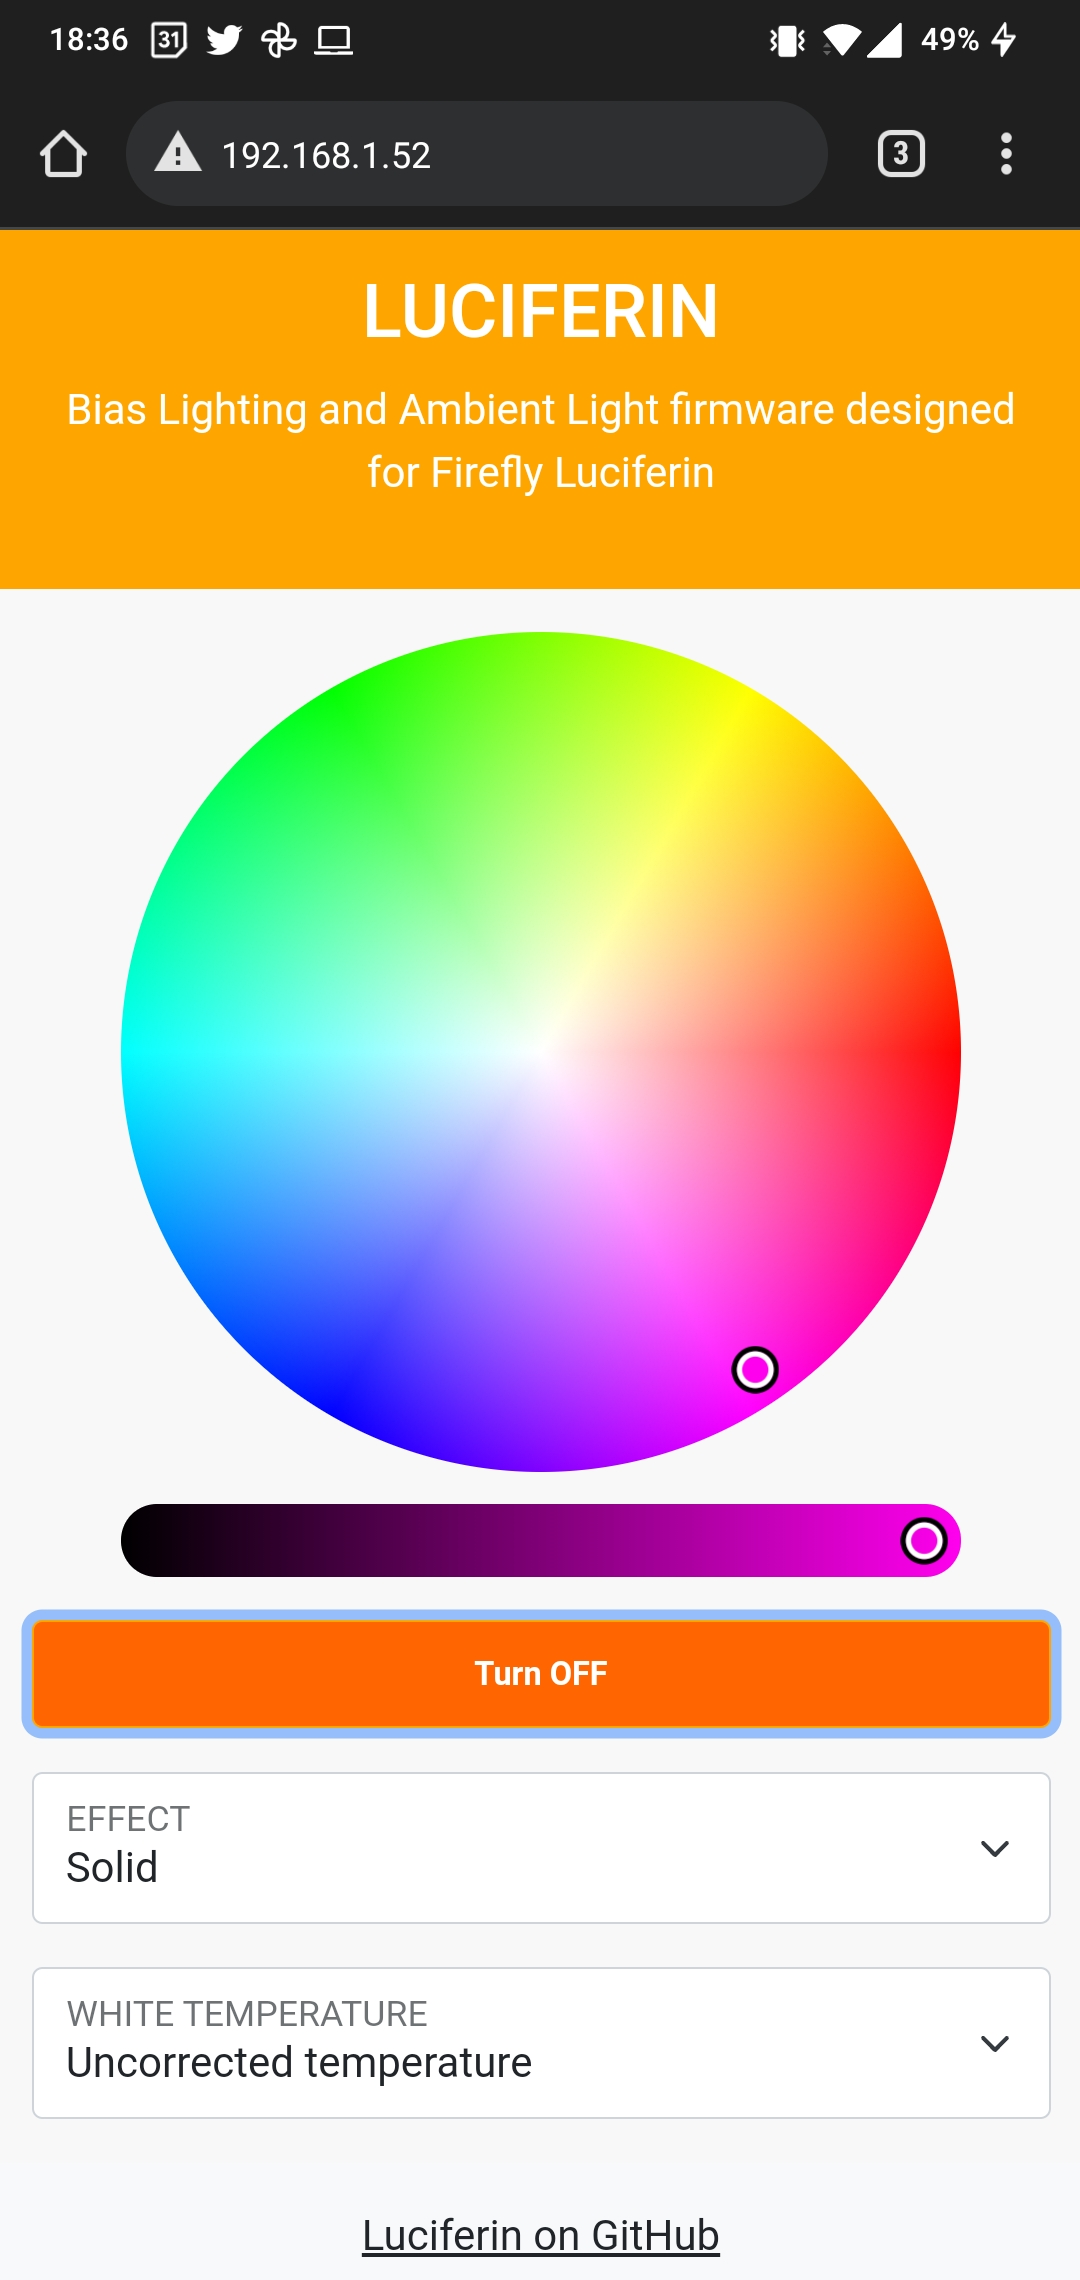
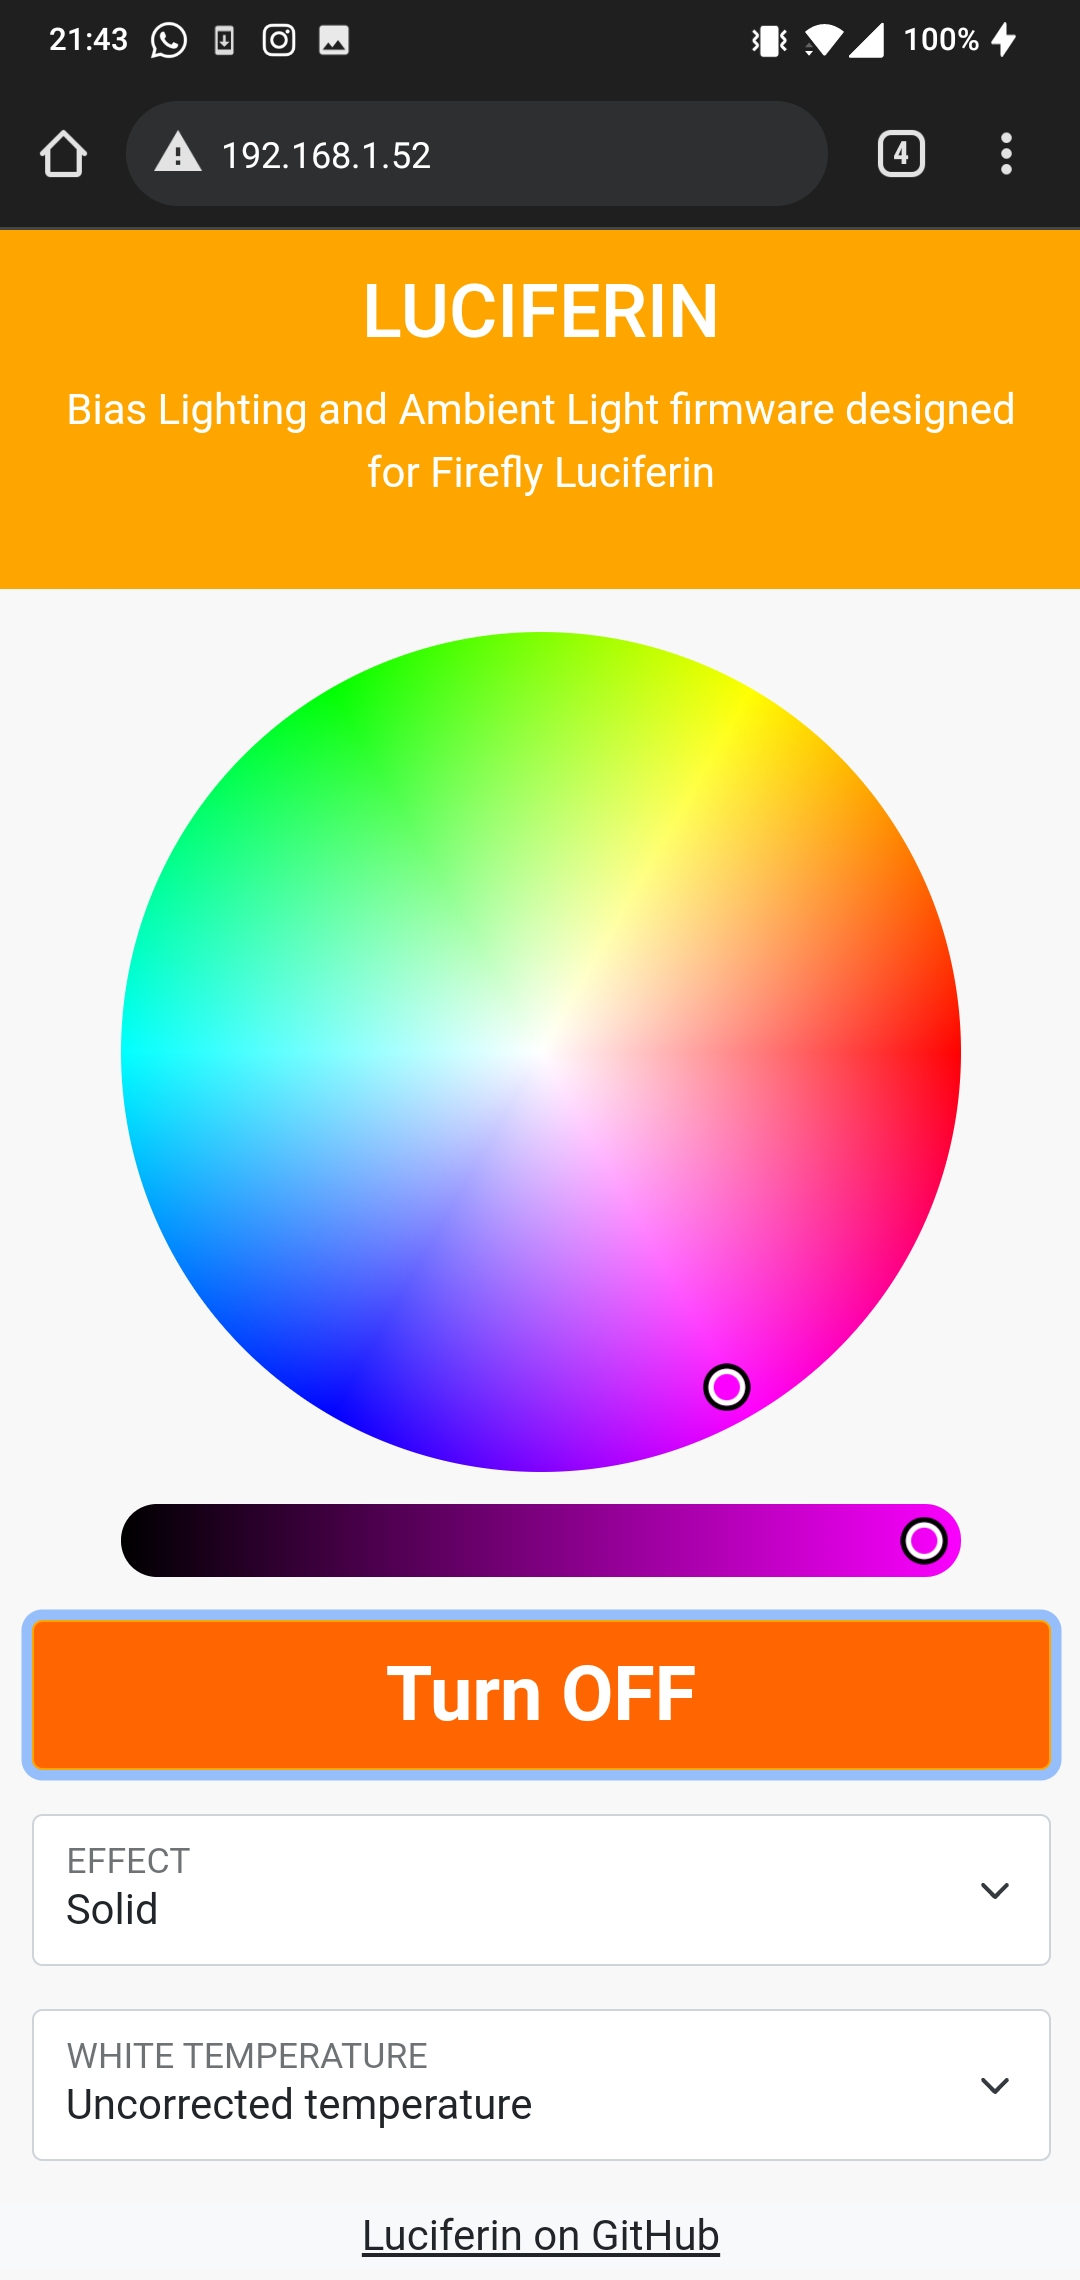
WiFi only

diff --git a/docs/index.html b/docs/index.html
@@ -4,6 +4,7 @@
     <title>Luciferin</title>
     <meta name="description" content="Bias Lighting and Ambient Light firmware, designed for Firefly Luciferin"/>
     <meta name="viewport" content="width=device-width"/>
+    <link rel="icon" type="image/png" href="https://sblantipodi.github.io/glow_worm_luciferin/static/logos/luciferin_logo.png" >
 
     <meta property="og:title" content="Luciferin"/>
     <meta property="og:site_name" content="Luciferin"/>

diff --git a/include/WebSettings.h b/include/WebSettings.h
@@ -27,6 +27,7 @@ const char settingsPage[] PROGMEM = R"=====(<!DOCTYPE html>
     <title>LUCIFERIN Web Interface</title>
     <meta charset='utf-8'>
     <meta name='viewport' content='width=device-width, initial-scale=1'>
+    <link rel="icon" type="image/png" href="https://sblantipodi.github.io/glow_worm_luciferin/static/logos/luciferin_logo.png" >
     <script src='https://code.jquery.com/jquery-3.6.0.slim.min.js' integrity='sha256-u7e5khyithlIdTpu22PHhENmPcRdFiHRjhAuHcs05RI=' crossorigin='anonymous'></script>
     <link href='https://cdn.jsdelivr.net/npm/bootstrap@5.1.1/dist/css/bootstrap.min.css' rel='stylesheet'>
     <script src='https://cdn.jsdelivr.net/npm/bootstrap@5.1.1/dist/js/bootstrap.bundle.min.js'></script>
@@ -36,8 +37,7 @@ const char settingsPage[] PROGMEM = R"=====(<!DOCTYPE html>
             background:orange !important;
         }
         #toggleLED {
-            height: 5vw;
-            font-size: 3vw;
+            font-size: 1.8rem;
             font-weight: bold;
             background:orange;
             border-color: orange;
@@ -52,7 +52,6 @@ const char settingsPage[] PROGMEM = R"=====(<!DOCTYPE html>
         }
         button {
             width: 100%;
-            min-height: 10vw;
         }
         .col-sm-12, col-sm-6, footer {
             margin: 2vw 0vw 2vw 0vw;
@@ -135,7 +134,7 @@ const char settingsPage[] PROGMEM = R"=====(<!DOCTYPE html>
     </div>
 </div>
 <footer class='bg-light text-center text-lg-start'>
-    <div class='text-center p-3'>
+    <div class='text-center'>
         <a class='text-dark' href='https://github.com/sblantipodi/'>Luciferin on GitHub</a>
     </div>
 </footer>
